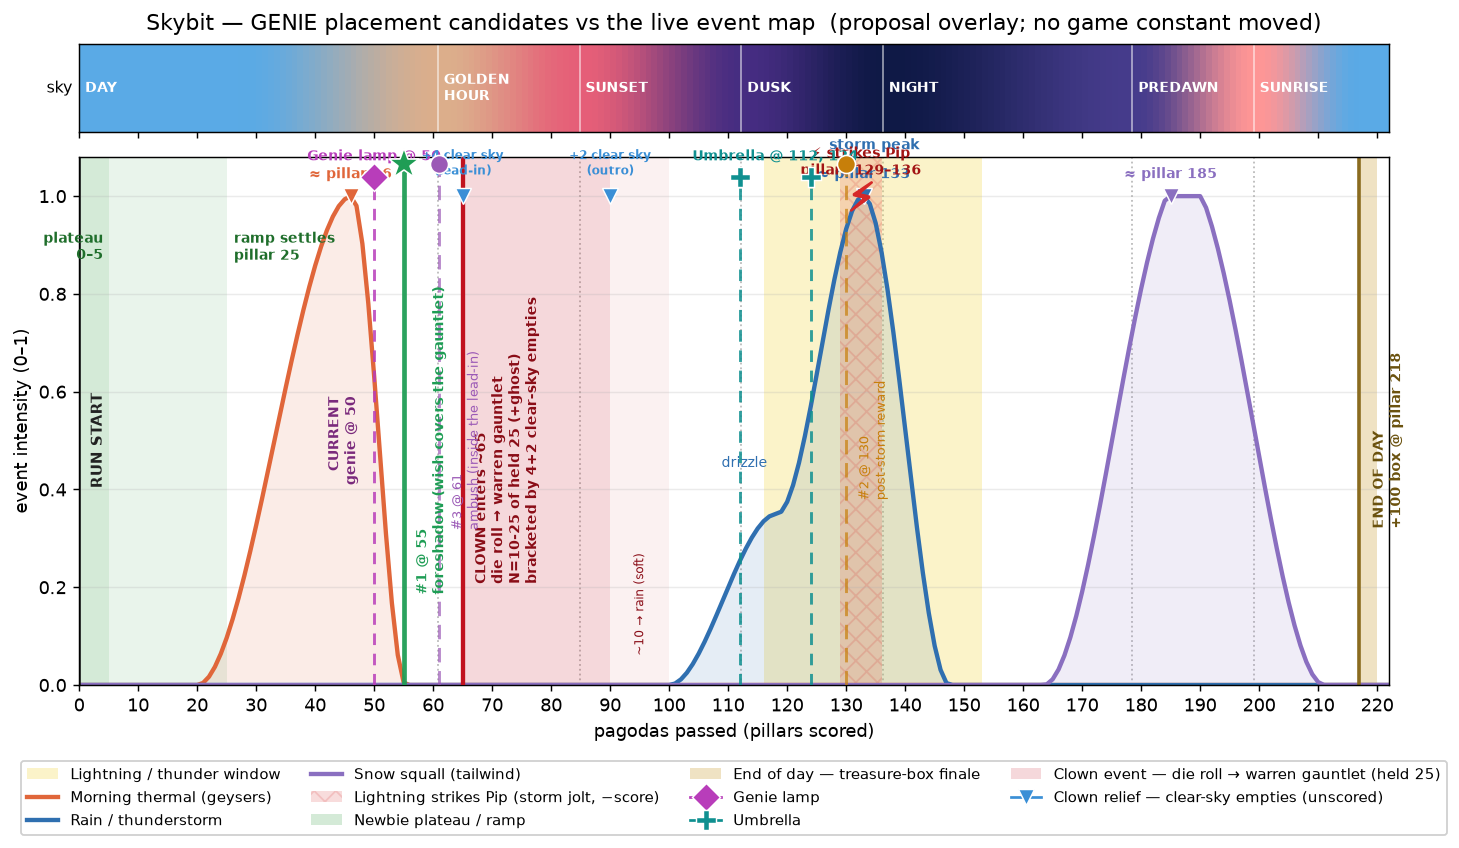
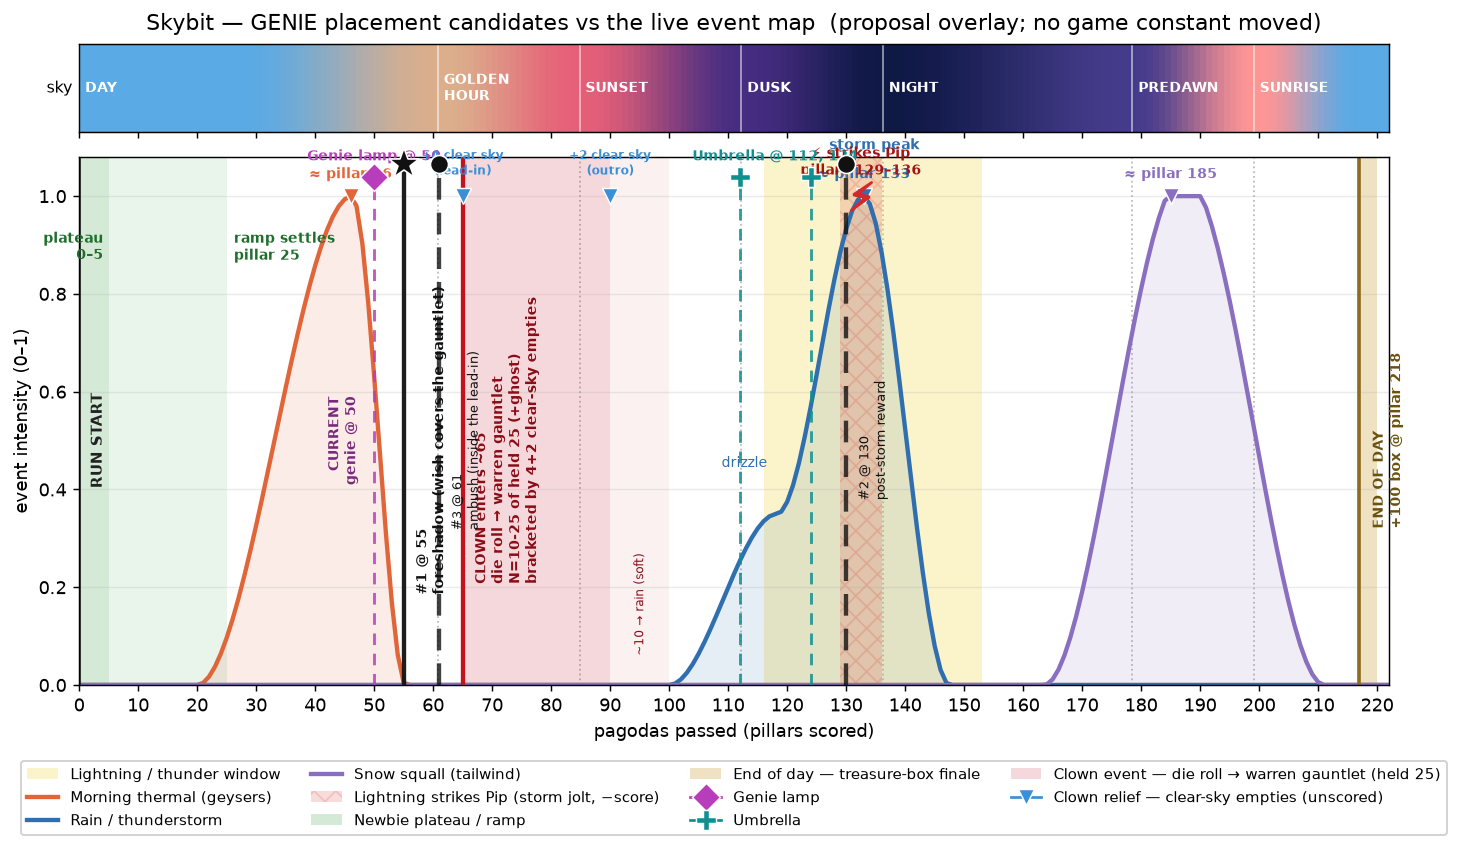
Genie-placement overlay: one colour for all three candidates
Single colour for all candidate pillars (recommended pick keeps a star,
same colour) so they read as one group against the current genie + live
events instead of three competing hues.

Claude-Session: https://claude.ai/code/session_01AKSWmLi8hNK3VNasXuLMag

diff --git a/tools/plot_genie_placement_candidates.py b/tools/plot_genie_placement_candidates.py
@@ -31,12 +31,15 @@ import matplotlib.pyplot as plt
 from game import weather
 from tools.plot_event_pagoda_map import compute_axis, draw_map
 
-# (rank, pillar, one-word thesis, colour). #1 is the recommendation — drawn
-# heaviest; #2/#3 lighter so the eye lands on the pick first.
+# All candidates share ONE colour so the eye groups them as "the proposals" and
+# reads them apart from the CURRENT genie (purple, drawn by draw_map) and the
+# live event bands. #1 is the recommendation — same colour, just a star marker.
+CAND_COLOR = "#111111"
+# (rank, pillar, one-line thesis).
 CANDIDATES = [
-    (1, 55, "foreshadow (wish covers the gauntlet)", "#1f9d55"),
-    (2, 130, "post-storm reward", "#c77f0a"),
-    (3, 61, "ambush (inside the lead-in)", "#9b59b6"),
+    (1, 55, "foreshadow (wish covers the gauntlet)"),
+    (2, 130, "post-storm reward"),
+    (3, 61, "ambush (inside the lead-in)"),
 ]
 
 
@@ -65,25 +68,26 @@ def main() -> None:
                 ha="right", va="center", fontsize=7.5, fontweight="bold",
                 color="#7a2a7c", zorder=9)
 
-    # Candidate pillars — solid line + ranked top marker on the lower panel.
-    for rank, x, thesis, color in CANDIDATES:
+    # Candidate pillars — all ONE colour; the recommendation gets a star (same
+    # colour) so it stands out without adding a second hue to decode.
+    for rank, x, thesis in CANDIDATES:
         is_pick = rank == 1
-        ax.axvline(x, color=color, linewidth=2.6 if is_pick else 1.6,
-                   alpha=0.95 if is_pick else 0.7,
-                   linestyle="-" if is_pick else (0, (5, 3)), zorder=5)
+        ax.axvline(x, color=CAND_COLOR, linewidth=2.4,
+                   linestyle="-" if is_pick else (0, (5, 3)),
+                   alpha=0.95 if is_pick else 0.8, zorder=5)
         ax.plot([x], [1.065],
                 marker="*" if is_pick else "o",
-                color=color, markersize=18 if is_pick else 10,
+                color=CAND_COLOR, markersize=18 if is_pick else 10,
                 markeredgecolor="white", markeredgewidth=0.9,
                 clip_on=False, zorder=9,
                 label=(f"#{rank} candidate genie @ {x}"
-                       + ("  (recommended)" if is_pick else "")))
+                       + ("  ★ recommended" if is_pick else "")))
         ax.annotate(f"#{rank} @ {x}\n{thesis}", (x, 0.5),
                     textcoords="offset points", xytext=(6, 0), rotation=90,
                     ha="left", va="center",
                     fontsize=7.5 if is_pick else 7,
                     fontweight="bold" if is_pick else "normal",
-                    color=color, zorder=9)
+                    color=CAND_COLOR, zorder=9)
 
     fig.tight_layout()
     out_path = os.path.join(out_dir, "genie_placement_candidates.png")
@@ -91,7 +95,7 @@ def main() -> None:
     plt.close(fig)
     print(f"wrote {out_path}")
     print(f"current genie @ {cur}; candidates: "
-          + ", ".join(f"#{r} {p}" for r, p, _, _ in CANDIDATES))
+          + ", ".join(f"#{r} {p}" for r, p, _ in CANDIDATES))
 
 
 if __name__ == "__main__":
